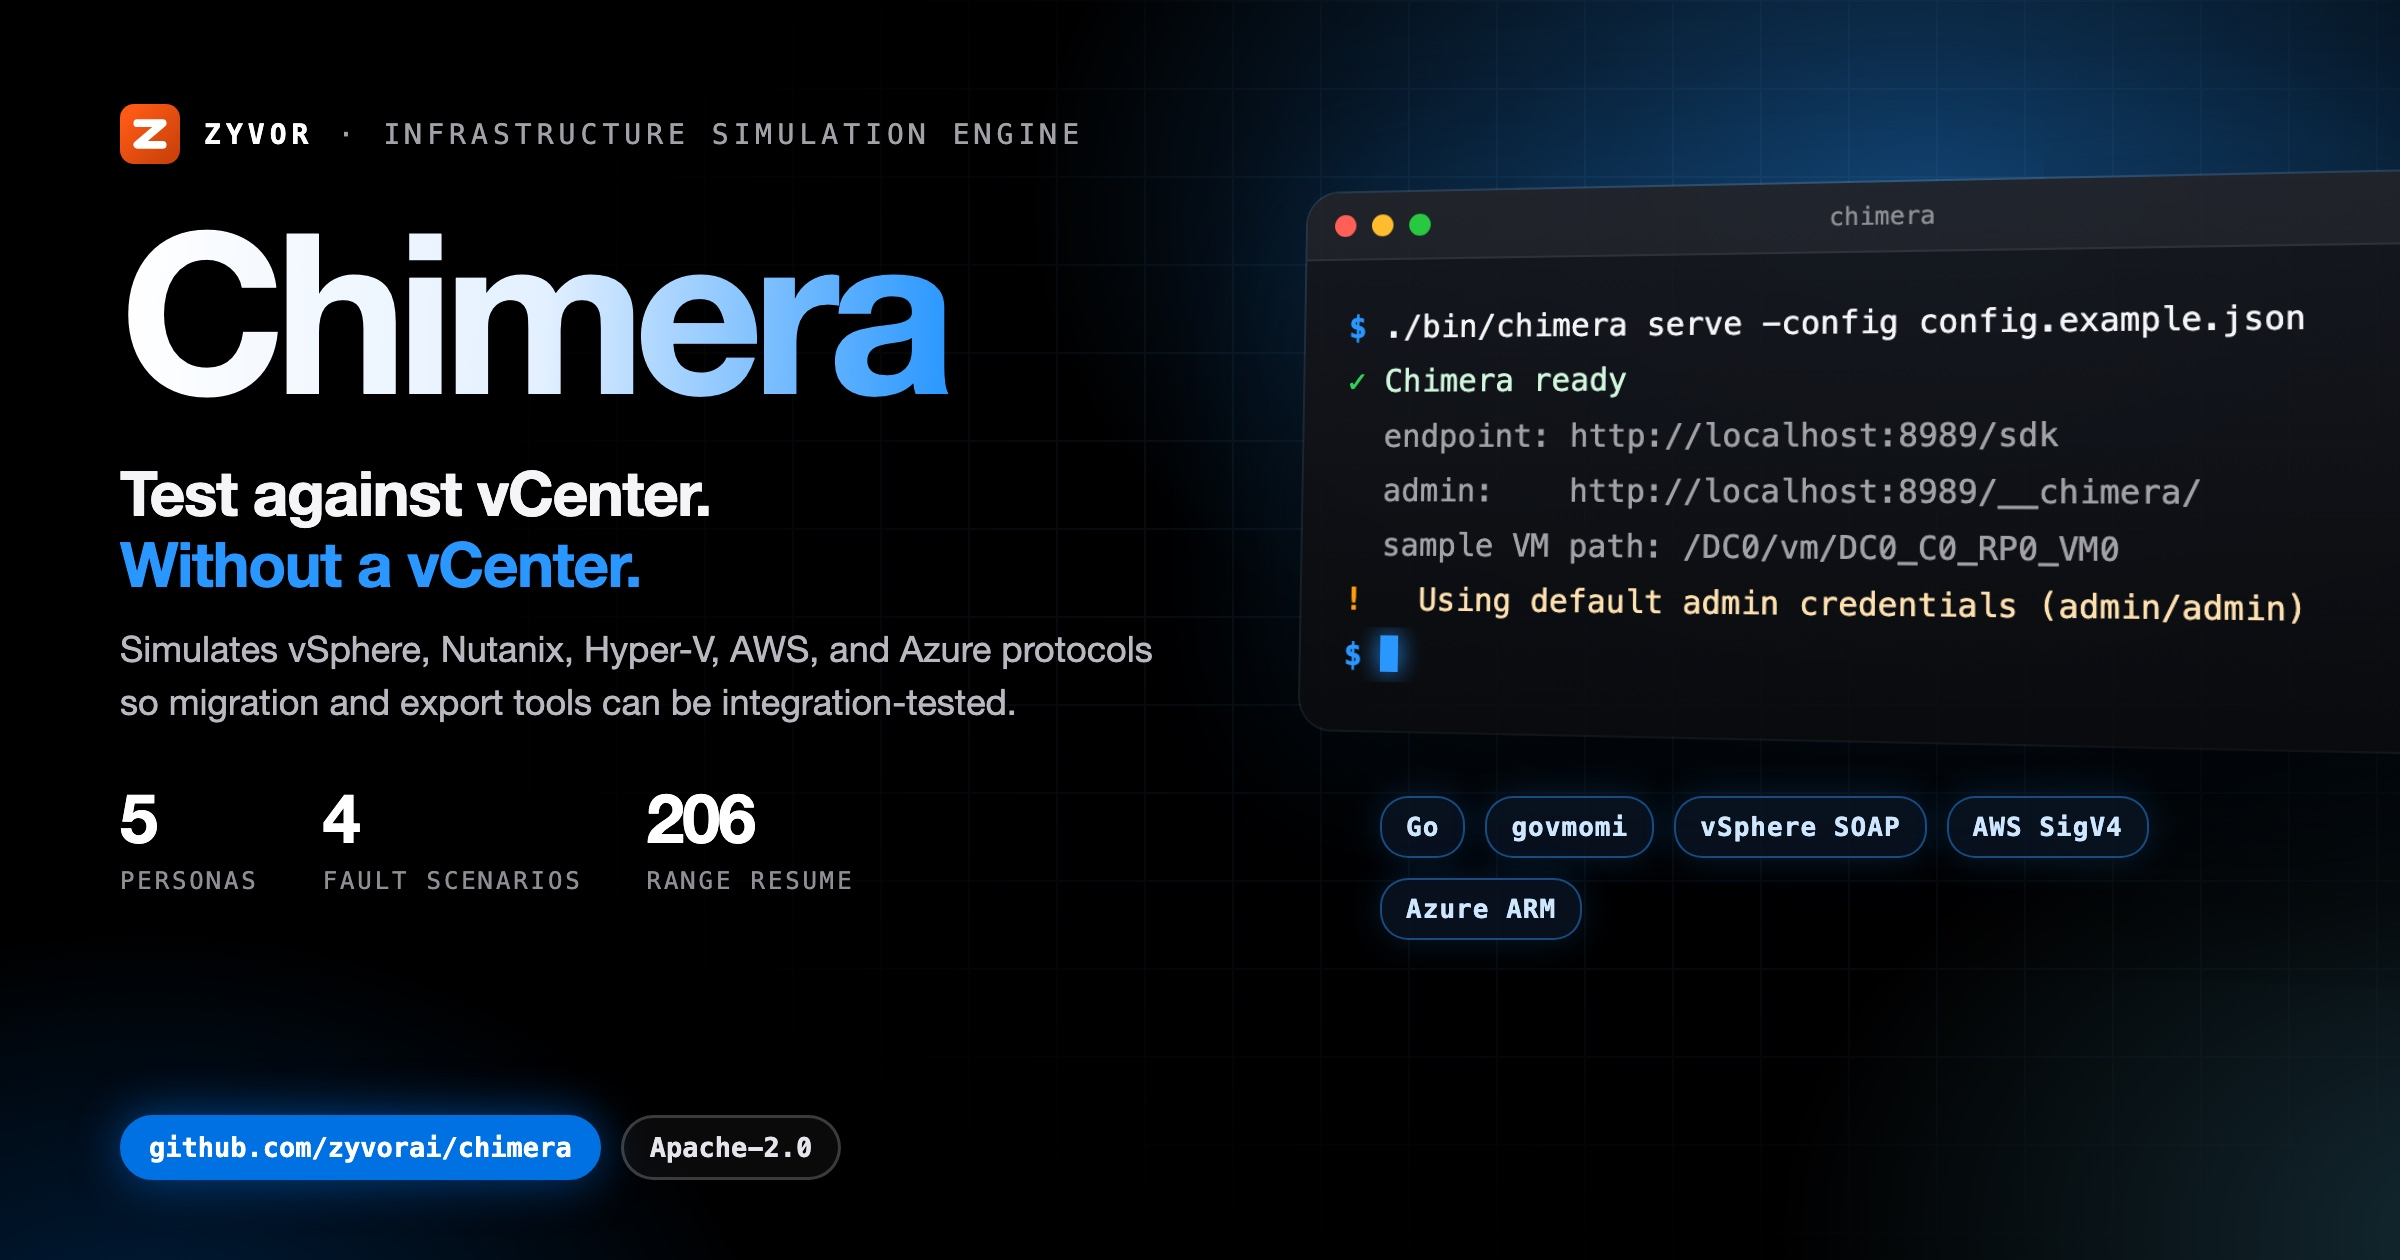
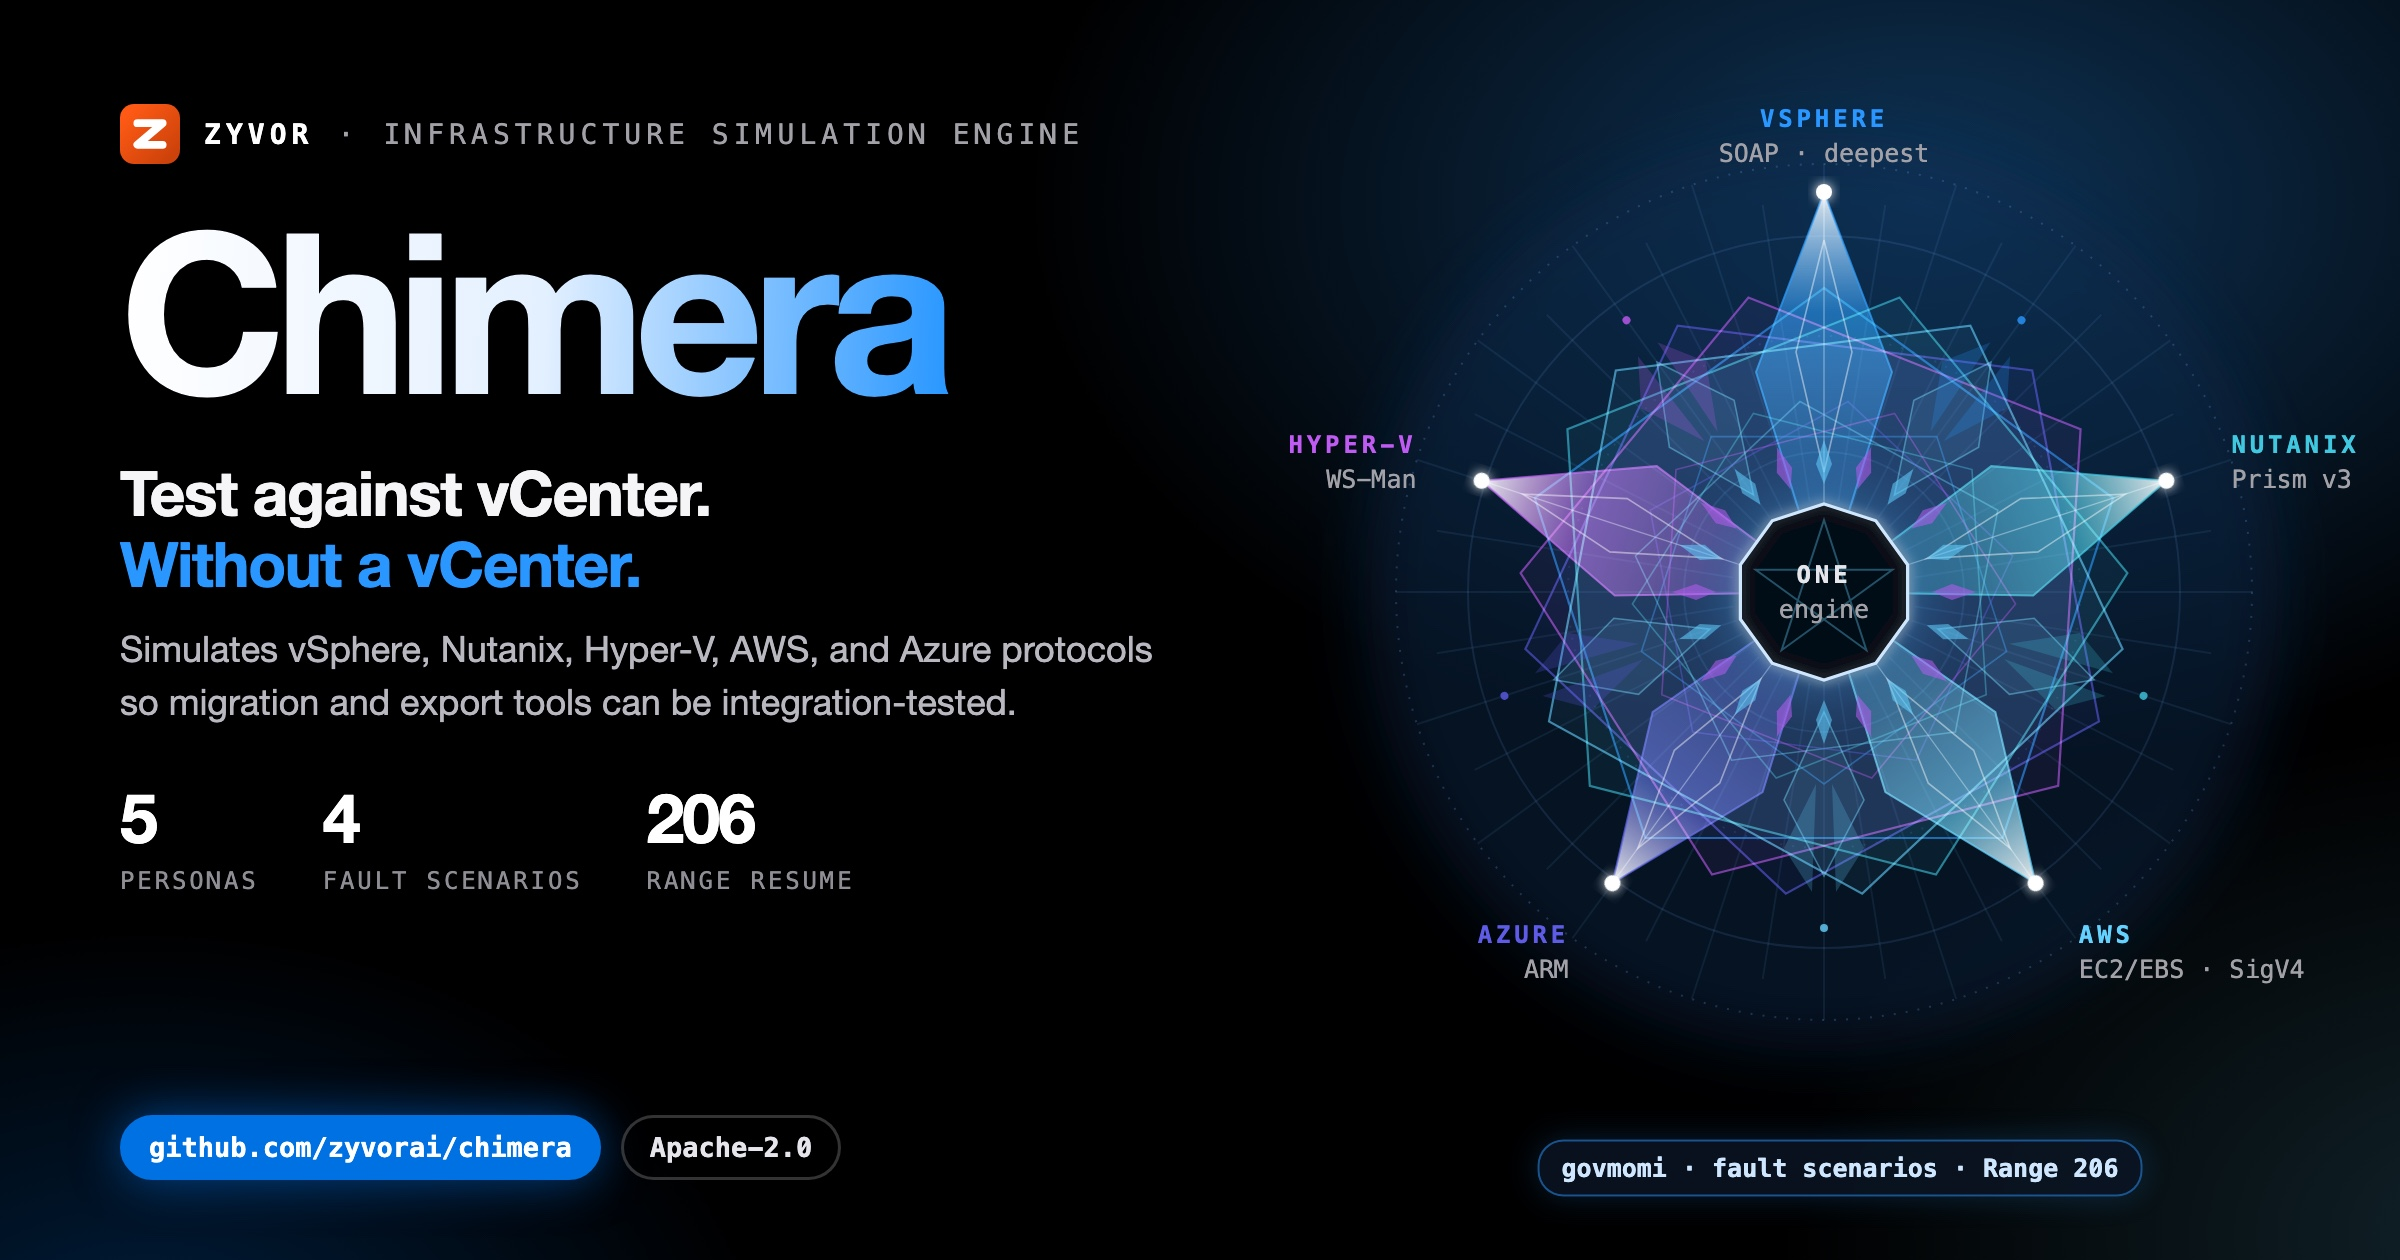
docs(social): unique illustrated hero card
Replace the shared terminal-window art with a motif drawn for this project;
same verified copy and stats on the left.

Changed region(s): [[0.5312, 0.0619, 1.0, 0.8357], [0.625, 0.8976, 0.9062, 0.9595], [0.9375, 0.7429, 0.9688, 0.7738]]

diff --git a/docs/social/chimera-hero-dark.html b/docs/social/chimera-hero-dark.html
@@ -8,58 +8,47 @@
   Build: ./docs/social/build-hero-dark.sh  ->  chimera-hero-dark.jpg (2400x1260)
 -->
 <style>
-  :root { --blue:#0071e3; --signal:#2997ff; --cyan:#64d2ff; --green:#30d158; --amber:#ff9f0a;
+  :root { --blue:#0071e3; --signal:#2997ff; --cyan:#64d2ff; --green:#30d158; --amber:#ff9f0a; --red:#ff453a; --violet:#bf5af2;
     --sans:'SF Pro Display','Helvetica Neue',Helvetica,Arial,sans-serif; --mono:'SF Mono',Menlo,Consolas,monospace; }
   * { box-sizing:border-box; }
   html,body { margin:0; padding:0; }
   body { width:1200px; height:630px; overflow:hidden; color:#f5f5f7; font-family:var(--sans); position:relative; background:#000; }
   .aurora { position:absolute; inset:0;
-    background:radial-gradient(720px 460px at 80% 16%, rgba(41,151,255,.40), transparent 62%),
-               radial-gradient(600px 420px at 104% 98%, rgba(100,210,255,.20), transparent 60%),
+    background:radial-gradient(720px 460px at 80% 16%, rgba(41,151,255,.34), transparent 62%),
+               radial-gradient(600px 420px at 104% 98%, rgba(100,210,255,.16), transparent 60%),
                radial-gradient(520px 380px at 6% 110%, rgba(0,113,227,.28), transparent 60%); }
-  .grid { position:absolute; inset:0; opacity:.09;
-    background-image:linear-gradient(rgba(120,180,255,.9) 1px,transparent 1px),linear-gradient(90deg,rgba(120,180,255,.9) 1px,transparent 1px);
-    background-size:44px 44px; -webkit-mask-image:radial-gradient(900px 520px at 72% 42%, #000 18%, transparent 75%); }
-  .left { position:absolute; left:60px; top:52px; width:560px; z-index:3; }
+  .copy { position:absolute; left:60px; top:52px; width:560px; z-index:3; }
   .brand { display:flex; align-items:center; gap:12px; font-family:var(--mono); font-size:14px; letter-spacing:.18em; text-transform:uppercase; color:#a1a1a6; }
   .brand b { color:#fff; }
   .word { margin:20px 0 0; font-size:112px; line-height:.95; font-weight:800; letter-spacing:-.05em; white-space:nowrap;
     background:linear-gradient(92deg,#fff 0%,#e3f0ff 38%,var(--signal) 74%,var(--cyan) 100%); -webkit-background-clip:text; background-clip:text; color:transparent; padding-bottom:6px; }
   .tag { margin:14px 0 0; font-size:31px; line-height:1.15; font-weight:700; letter-spacing:-.02em; }
   .tag em { font-style:normal; color:var(--signal); }
-  .lede { margin:12px 0 0; font-size:18px; line-height:1.45; color:#b8b8bf; width:520px; }
+  .lede { margin:12px 0 0; font-size:18px; line-height:1.45; color:#b8b8bf; width:520px; text-shadow:0 1px 12px #000; }
   .stats { margin-top:24px; display:flex; gap:32px; }
   .stat b { display:block; font-size:34px; font-weight:800; letter-spacing:-.03em; color:#fff; }
   .stat span { font-family:var(--mono); font-size:12px; letter-spacing:.12em; text-transform:uppercase; color:#8e8e93; }
   .pill { position:absolute; left:60px; bottom:40px; display:flex; gap:10px; z-index:3; }
-  .pill span { font-family:var(--mono); font-size:13.5px; font-weight:700; padding:7px 13px; border-radius:18px; border:1.5px solid rgba(255,255,255,.2); color:#e5e5ea; background:rgba(255,255,255,.04); }
+  .pill span { font-family:var(--mono); font-size:13.5px; font-weight:700; padding:7px 13px; border-radius:18px; border:1.5px solid rgba(255,255,255,.2); color:#e5e5ea; background:rgba(0,0,0,.6); }
   .pill span.b { background:var(--blue); border-color:var(--blue); color:#fff; box-shadow:0 0 24px rgba(0,113,227,.55); }
-
-  .right { position:absolute; left:652px; top:96px; width:560px; z-index:2; }
-  .win { position:relative; width:560px; border-radius:16px; overflow:hidden; z-index:2;
-    background:linear-gradient(180deg, rgba(22,24,30,.94), rgba(10,11,14,.96));
-    box-shadow:0 50px 100px rgba(0,0,0,.75), 0 0 0 1px rgba(255,255,255,.14), 0 0 90px rgba(41,151,255,.22);
-    transform:perspective(1600px) rotateY(-14deg) rotateX(4deg); transform-origin:left center; }
-  .bar { height:34px; display:flex; align-items:center; gap:8px; padding:0 14px; background:rgba(255,255,255,.05); border-bottom:1px solid rgba(255,255,255,.07); }
-  .bar i { width:11px; height:11px; border-radius:50%; background:#ff5f57; } .bar i:nth-child(2){background:#febc2e} .bar i:nth-child(3){background:#28c840}
-  .bar em { margin-left:auto; margin-right:auto; font-style:normal; font-family:var(--mono); font-size:12px; color:#8e8e93; transform:translateX(-24px); }
-  .term { min-height:214px; padding:20px 22px 24px; font-family:var(--mono); font-size:15.5px; line-height:1.75; }
-  .l { white-space:pre; overflow:hidden; text-overflow:ellipsis; color:#f5f5f7; }
-  .l .p { color:var(--signal); font-weight:700; }
-  .l.out { color:#a1a1a6; }
-  .l.cm { color:#6e6e73; }
-  .l.ok { color:#d1f7dc; } .l.ok span { color:var(--green); font-weight:700; }
-  .l.warn { color:#ffe1b0; } .l.warn span { color:var(--amber); font-weight:700; }
-  .cur { display:inline-block; width:9px; height:18px; background:var(--signal); vertical-align:-3px; box-shadow:0 0 12px var(--signal); }
-  .chips { margin:34px 0 0 38px; width:480px; display:flex; flex-wrap:wrap; gap:10px; position:relative; z-index:3; }
-  .chips span { font-family:var(--mono); font-size:13px; font-weight:700; letter-spacing:.04em; padding:7px 12px; border-radius:14px;
-    color:#cfe6ff; background:rgba(10,20,35,.82); border:1px solid rgba(41,151,255,.45); box-shadow:0 0 18px rgba(41,151,255,.18); }
+  .art { position:absolute; left:520px; top:0; width:680px; height:630px; z-index:2; }
+  .art svg { display:block; }
+  #labels { position:absolute; inset:0; z-index:4; pointer-events:none; }
+  .lbl { position:absolute; font-family:var(--mono); font-size:12.5px; color:#a1a1a6; text-align:center; transform:translate(-50%,-50%); white-space:nowrap; }
+  .lbl b { display:block; font-size:12px; letter-spacing:.16em; text-transform:uppercase; color:#e5e5ea; }
+  .lbl span { display:block; margin-top:3px; }
+  .lbl.box { padding:7px 12px; border-radius:12px; background:rgba(8,10,14,.85); border:1px solid rgba(255,255,255,.14); }
+  .lbl.chip { padding:6px 11px; border-radius:13px; font-size:12.5px; font-weight:700; color:#cfe6ff; background:rgba(10,20,35,.85); border:1px solid rgba(41,151,255,.5); box-shadow:0 0 16px rgba(41,151,255,.2); }
+  .lbl.left { transform:translate(0,-50%); text-align:left; }
+  .lbl.right { transform:translate(-100%,-50%); text-align:right; }
+  .ok { color:var(--green) !important; } .warn { color:var(--amber) !important; } .bad { color:var(--red) !important; } .sig { color:var(--signal) !important; } .cy { color:var(--cyan) !important; } .vi { color:var(--violet) !important; }
 </style>
 </head>
 <body>
 <div class="aurora"></div>
-<div class="grid"></div>
-<div class="left">
+<div class="art"><svg id="art" width="680" height="630" viewBox="0 0 680 630" xmlns="http://www.w3.org/2000/svg"></svg></div>
+<div id="labels"></div>
+<div class="copy">
   <div class="brand"><svg viewBox="0 0 64 64" width="30" height="30" aria-hidden="true"><defs><linearGradient id="zb" x1="8" y1="8" x2="56" y2="56" gradientUnits="userSpaceOnUse"><stop offset="0" stop-color="#ff5a15"/><stop offset="1" stop-color="#cc420a"/></linearGradient></defs><rect width="64" height="64" rx="15" fill="url(#zb)"/><path d="M18.5,20.5 45.5,20.5 18.5,43.5 45.5,43.5" fill="none" stroke="#fff" stroke-width="8.3" stroke-linecap="round" stroke-linejoin="round"/></svg><b>Zyvor</b><span>&middot;</span><span>Infrastructure simulation engine</span></div>
   <div class="word">Chimera</div>
   <div class="tag">Test against vCenter.<br><em>Without a vCenter.</em></div>
@@ -67,8 +56,108 @@
   <div class="stats"><div class="stat"><b>5</b><span>personas</span></div><div class="stat"><b>4</b><span>fault scenarios</span></div><div class="stat"><b>206</b><span>Range resume</span></div></div>
 </div>
 <div class="pill"><span class="b">github.com/zyvorai/chimera</span><span>Apache-2.0</span></div>
-<div class="right"><div class="win"><div class="bar"><i></i><i></i><i></i><em>chimera</em></div>
-<div class="term"><div class="l"><span class="p">$</span> ./bin/chimera serve -config config.example.json</div><div class="l ok"><span>&#10003;</span> Chimera ready</div><div class="l out">  endpoint: http://localhost:8989/sdk</div><div class="l out">  admin:    http://localhost:8989/__chimera/</div><div class="l out">  sample VM path: /DC0/vm/DC0_C0_RP0_VM0</div><div class="l warn"><span>!</span>   Using default admin credentials (admin/admin)</div><div class="l"><span class="p">$</span> <i class="cur"></i></div></div></div>
-<div class="chips"><span>Go</span><span>govmomi</span><span>vSphere SOAP</span><span>AWS SigV4</span><span>Azure ARM</span></div></div>
+<script>
+var Z = (function () {
+  var NS = 'http://www.w3.org/2000/svg', svg = document.getElementById('art'), labels = document.getElementById('labels');
+  var seed = 20261004;
+  function rnd() { seed = (seed * 1103515245 + 12345) % 2147483648; return seed / 2147483648; }
+  function el(tag, a, parent) { var n = document.createElementNS(NS, tag); for (var k in a) n.setAttribute(k, a[k]); (parent || svg).appendChild(n); return n; }
+  function g(attrs) { return el('g', attrs || {}); }
+  function label(x, y, inner, cls, style) { var d = document.createElement('div'); d.className = 'lbl ' + (cls || ''); d.style.left = (520 + x) + 'px'; d.style.top = y + 'px'; if (style) d.setAttribute('style', d.getAttribute('style') + ';' + style); d.innerHTML = inner; labels.appendChild(d); return d; }
+  return { NS: NS, svg: svg, W: 680, H: 630, rnd: rnd, el: el, g: g, label: label,
+    reseed: function (s) { seed = s; },
+    c: { blue: '#0071e3', signal: '#2997ff', cyan: '#64d2ff', green: '#30d158', amber: '#ff9f0a', red: '#ff453a', violet: '#bf5af2', teal: '#40c8e0', indigo: '#5e5ce6', pink: '#ff375f', white: '#f5f5f7', grey: '#8e8e93' } };
+})();
+(function () {
+// Chimera: kaleidoscope mandala. Five protocol personas (vSphere, Nutanix, Hyper-V, AWS, Azure) are
+// translucent pentagons and petals, fused by mirror symmetry into one simulated core.
+var C = Z.c, cx = 392, cy = 296;
+var defs = Z.el('defs', {});
+var personas = [
+  { n: 'vSphere', s: 'SOAP &middot; deepest', col: '#2997ff' },
+  { n: 'Nutanix', s: 'Prism v3', col: '#40c8e0' },
+  { n: 'AWS', s: 'EC2/EBS &middot; SigV4', col: '#64d2ff' },
+  { n: 'Azure', s: 'ARM', col: '#5e5ce6' },
+  { n: 'Hyper-V', s: 'WS-Man', col: '#bf5af2' }
+];
+var dh = '<filter id="chGl" x="-50%" y="-50%" width="200%" height="200%"><feGaussianBlur stdDeviation="3" result="b"/><feMerge><feMergeNode in="b"/><feMergeNode in="SourceGraphic"/></feMerge></filter>' +
+  '<filter id="chSf" x="-50%" y="-50%" width="200%" height="200%"><feGaussianBlur stdDeviation="16"/></filter>' +
+  '<radialGradient id="chCore"><stop offset="0" stop-color="#fff"/><stop offset=".4" stop-color="#64d2ff"/><stop offset="1" stop-color="#0071e3" stop-opacity="0"/></radialGradient>';
+personas.forEach(function (p, k) {
+  dh += '<linearGradient id="chP' + k + '" x1="0" y1="0" x2="1" y2="0"><stop offset="0" stop-color="' + p.col + '" stop-opacity=".05"/><stop offset=".7" stop-color="' + p.col + '" stop-opacity=".55"/><stop offset="1" stop-color="#ffffff" stop-opacity=".9"/></linearGradient>';
+});
+defs.innerHTML = dh;
+
+function pol(r, a) { return [cx + r * Math.cos(a), cy + r * Math.sin(a)]; }
+function pts(a) { return a.map(function (q) { return q[0].toFixed(1) + ',' + q[1].toFixed(1); }).join(' '); }
+
+// mandala texture: 40 radial hairlines and rings
+Z.el('circle', { cx: cx, cy: cy, r: 230, fill: '#0a2a50', opacity: .45, filter: 'url(#chSf)' });
+for (var i = 0; i < 40; i++) {
+  var a = i / 40 * Math.PI * 2, p0 = pol(46, a), p1 = pol(i % 2 ? 196 : 214, a);
+  Z.el('line', { x1: p0[0], y1: p0[1], x2: p1[0], y2: p1[1], stroke: 'rgba(120,185,255,.09)' });
+}
+[70, 128, 178, 214].forEach(function (r, i) {
+  Z.el('circle', { cx: cx, cy: cy, r: r, fill: 'none', stroke: 'rgba(120,185,255,' + (i === 3 ? .22 : .12) + ')', 'stroke-dasharray': i % 2 ? '1 5' : 'none' });
+});
+
+// rotated translucent pentagons, one per persona, offset by 72/5 degrees -> 25-fold rosette
+var blend = Z.g({ style: 'isolation:isolate' });
+personas.forEach(function (p, k) {
+  var a0 = -Math.PI / 2 + k * Math.PI * 2 / 25, ring = [], inner = [];
+  for (var j = 0; j < 5; j++) { ring.push(pol(152, a0 + j * Math.PI * 2 / 5)); inner.push(pol(96, a0 + Math.PI / 5 + j * Math.PI * 2 / 5)); }
+  Z.el('polygon', { points: pts(ring), fill: p.col, 'fill-opacity': .06, stroke: p.col, 'stroke-width': 1.1, 'stroke-opacity': .6, style: 'mix-blend-mode:screen' }, blend);
+  Z.el('polygon', { points: pts(inner), fill: 'none', stroke: p.col, 'stroke-width': .8, 'stroke-opacity': .4 }, blend);
+});
+// secondary inverted petals between the main ones
+for (var k = 0; k < 5; k++) {
+  var a = -Math.PI / 2 + (k + 0.5) * Math.PI * 2 / 5, deg = a * 180 / Math.PI;
+  var gp = Z.g({ transform: 'translate(' + cx + ',' + cy + ') rotate(' + deg.toFixed(2) + ')' }, blend);
+  Z.el('polygon', { points: '60,0 104,-20 142,0 104,20', fill: 'rgba(100,210,255,.08)', stroke: 'rgba(100,210,255,.45)', 'stroke-width': .8, style: 'mix-blend-mode:screen' }, gp);
+}
+
+// five petals (mirror-symmetric kites) pointing to each persona
+personas.forEach(function (p, k) {
+  var a = -Math.PI / 2 + k * Math.PI * 2 / 5, deg = a * 180 / Math.PI;
+  var len = k === 0 ? 200 : 180, g = Z.g({ transform: 'translate(' + cx + ',' + cy + ') rotate(' + deg.toFixed(2) + ')', style: 'mix-blend-mode:screen' }, blend);
+  Z.el('polygon', { points: '0,0 ' + (len * .55) + ',' + (-34) + ' ' + len + ',0 ' + (len * .55) + ',34', fill: 'url(#chP' + k + ')', stroke: p.col, 'stroke-width': 1, 'stroke-opacity': .7 }, g);
+  Z.el('polygon', { points: (len * .3) + ',0 ' + (len * .6) + ',-14 ' + (len * .88) + ',0 ' + (len * .6) + ',14', fill: 'none', stroke: '#fff', 'stroke-width': .8, opacity: .45 }, g);
+  Z.el('line', { x1: 0, y1: 0, x2: len, y2: 0, stroke: '#fff', 'stroke-width': .6, opacity: .35 }, g);
+  Z.el('circle', { cx: len, cy: 0, r: 4, fill: '#fff', filter: 'url(#chGl)' }, g);
+  // mirrored shards between petals
+  var g2 = Z.g({ transform: 'translate(' + cx + ',' + cy + ') rotate(' + (deg + 36).toFixed(2) + ')' });
+  [1, -1].forEach(function (m) {
+    Z.el('polygon', { points: '96,' + (m * 4) + ' 128,' + (m * 20) + ' 150,' + (m * 6), fill: p.col, opacity: .22 }, g2);
+  });
+  Z.el('circle', { cx: 168, cy: 0, r: 2, fill: p.col, opacity: .8 }, g2);
+});
+
+// inner star of mirrored diamonds
+for (var i = 0; i < 20; i++) {
+  var a = i / 20 * Math.PI * 2, deg = a * 180 / Math.PI;
+  var g3 = Z.g({ transform: 'translate(' + cx + ',' + cy + ') rotate(' + deg.toFixed(2) + ')' });
+  Z.el('polygon', { points: '54,0 64,-4 76,0 64,4', fill: i % 2 ? '#64d2ff' : '#bf5af2', opacity: .55 }, g3);
+}
+
+// fused core: decagon
+Z.el('circle', { cx: cx, cy: cy, r: 60, fill: 'url(#chCore)', opacity: .5, filter: 'url(#chSf)' });
+var dec = [];
+for (var j = 0; j < 10; j++) dec.push(pol(44, -Math.PI / 2 + j * Math.PI / 5));
+Z.el('polygon', { points: pts(dec), fill: 'rgba(6,10,18,.94)', stroke: '#cfe6ff', 'stroke-width': 1.6, filter: 'url(#chGl)' });
+var dec2 = [];
+for (var j = 0; j < 5; j++) dec2.push(pol(36, -Math.PI / 2 + j * Math.PI * 4 / 5));
+Z.el('polygon', { points: pts(dec2), fill: 'none', stroke: 'rgba(100,210,255,.35)', 'stroke-width': 1 });
+Z.label(cx, cy, '<b>one</b><span>engine</span>');
+
+// persona labels at petal tips
+personas.forEach(function (p, k) {
+  var a = -Math.PI / 2 + k * Math.PI * 2 / 5, r = k === 0 ? 228 : 210, q = pol(r, a);
+  var dx = Math.cos(a), cls = Math.abs(dx) < 0.3 ? '' : (dx > 0 ? 'left' : 'right');
+  var ox = Math.abs(dx) < 0.3 ? 0 : (dx > 0 ? 4 : -4);
+  Z.label(q[0] + ox, q[1] + (Math.sin(a) > 0.5 ? 10 : 0), '<b style="color:' + p.col + '">' + p.n + '</b><span>' + p.s + '</span>', cls);
+});
+Z.label(400, 584, 'govmomi &middot; fault scenarios &middot; Range 206', 'chip');
+})();
+</script>
 </body>
 </html>
